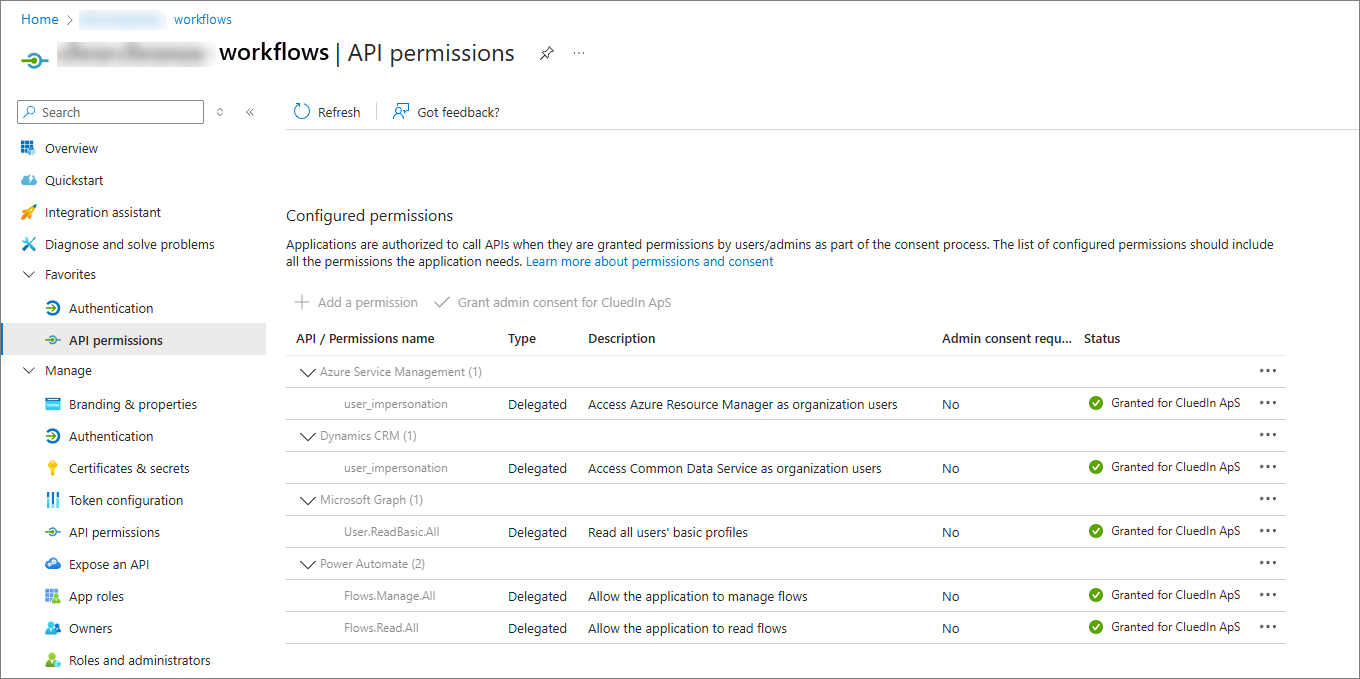
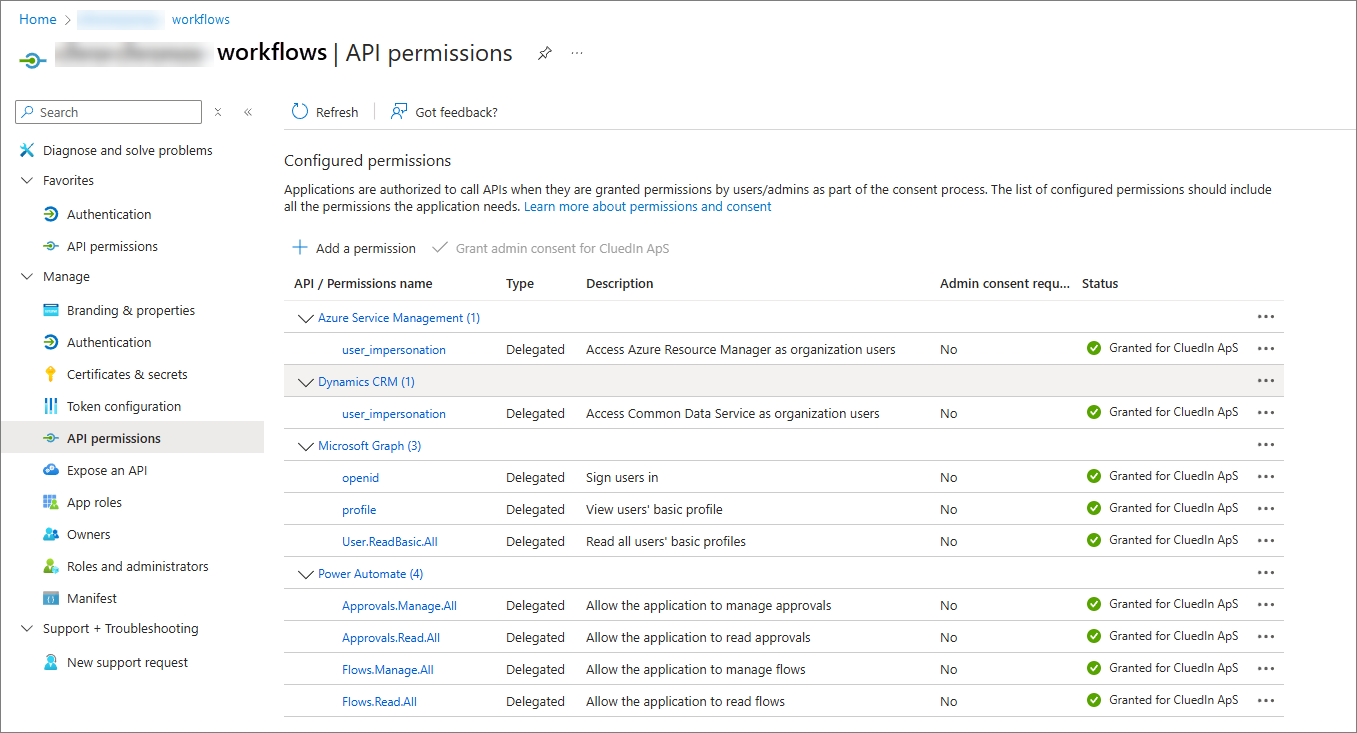
Updated API permissions and post config for Power Automate

diff --git a/docs/180-microsoft-integration/power-automate/010-power-automate-pre-configuration-guide.md b/docs/180-microsoft-integration/power-automate/010-power-automate-pre-configuration-guide.md
@@ -120,13 +120,31 @@ Note that when you register a new application in Microsoft Entra ID, a service p
 
 1. Go to **Manage** > **API permissions**, and add the following permissions:
 
-    - **Azure Service Management**: user_impersonation, Delegated.
+    - **Azure Service Management**:
 
-    - **Dynamics CRM / Dataverse**: user_impersonation, Delegated.
+        - user_impersonation – Delegated
 
-    - **Microsoft Graph**: User.ReadBasic.All, Delegated.
+    - **Dynamics CRM / Dataverse**:
 
-    - **Power Automate**: Flows.Manage.All and Flows.Read.All, Delegated.
+        - user_impersonation – Delegated
+
+    - **Microsoft Graph**:
+
+        - openid – Delegated
+
+        - profile – Delegated
+
+        - User.ReadBasic.All – Delegated.
+
+    - **Power Automate**:
+
+        - Approvals.Manage.All – Delegated
+
+        - Approvals.Read.All – Delegated
+
+        - Flows.Manage.All – Delegated
+
+        - Flows.Read.All – Delegated
 
     ![new-app-api-permissions.png](../../assets/images/microsoft-integration/power-automate/new-app-api-permissions.png)
 

diff --git a/docs/180-microsoft-integration/power-automate/030-power-automate-post-configuration-guide.md b/docs/180-microsoft-integration/power-automate/030-power-automate-post-configuration-guide.md
@@ -34,7 +34,15 @@ Make sure that you have completed all of the actions described in [Power Automa
 
     ![custom-connector.png](../../assets/images/microsoft-integration/power-automate/custom-connector.png)
 
-1. Open the custom connector, and then go to the **Definition** tab.
+1. Open the custom connector and select **Edit**.
+
+    ![custom-connector-edit.png](../../assets/images/microsoft-integration/power-automate/custom-connector-edit.png)
+
+    Alternatively, hover over the custom connector and select **Edit**.
+
+    ![custom-connector-edit-alt.png](../../assets/images/microsoft-integration/power-automate/custom-connector-edit-alt.png)
+
+1. Go to the **Definition** tab.
 
 1. Check the **Triggers** section. All items there should be marked with green checkboxes.
 
